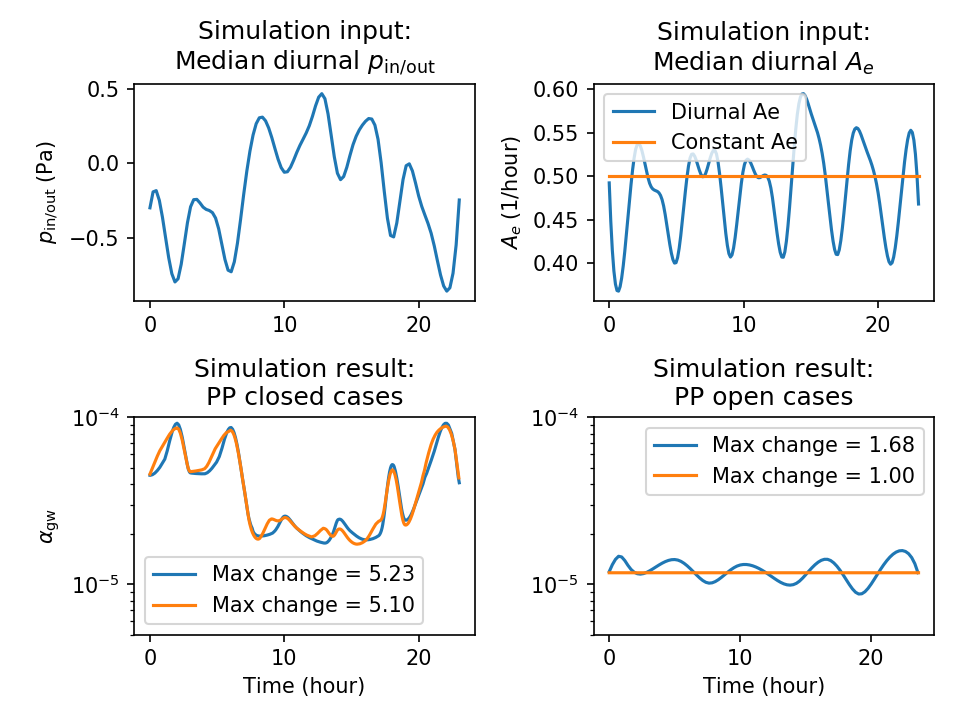
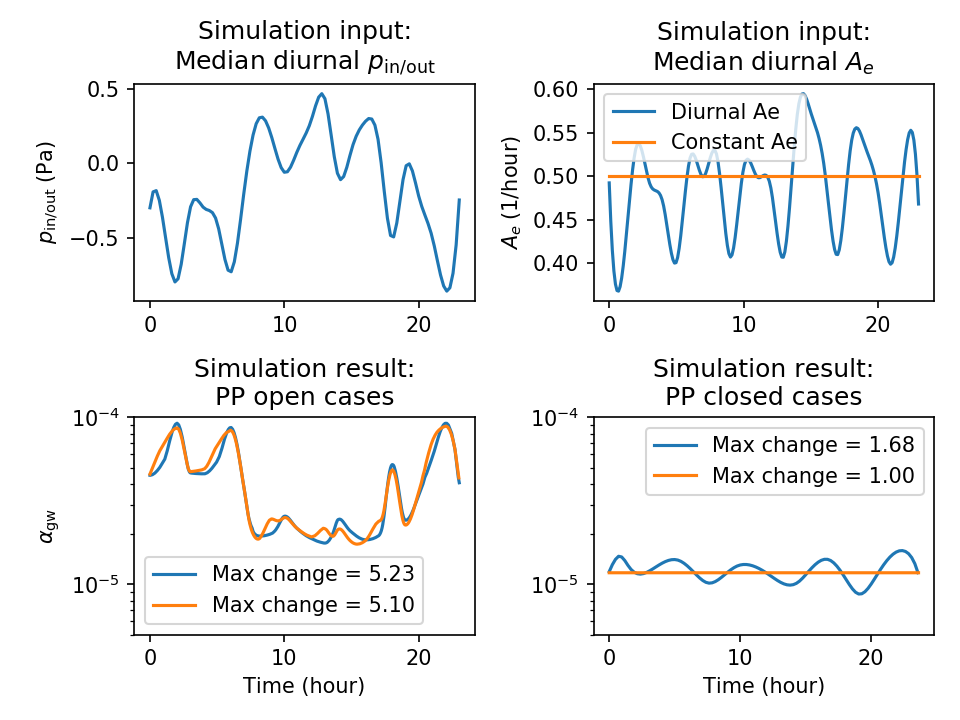
Reversed simulation result titles

Changed region(s): [[0.6875, 0.5194, 0.9062, 0.5806], [0.2188, 0.5194, 0.4375, 0.5806]]

diff --git a/code/figures.py b/code/figures.py
@@ -408,12 +408,12 @@ class Diurnal:
             ylim=ylims,
             ylabel='$\\alpha_\\mathrm{gw}$',
             xlabel='Time (hour)',
-            title='Simulation result:\nPP closed cases'
+            title='Simulation result:\nPP open cases'
         )
         ax4.set(
             ylim=ylims,
             xlabel='Time (hour)',
-            title='Simulation result:\nPP open cases'
+            title='Simulation result:\nPP closed cases'
         )
 
         plt.tight_layout()
@@ -425,8 +425,8 @@ class Diurnal:
         return
 
 
-#Diurnal()
-PressureKDE(y_data_log=True,norm_conc=True)
+Diurnal()
+#PressureKDE(y_data_log=True,norm_conc=True)
 #AttenuationSubslab()
 #Modeling()
 #IndianapolisTime()
